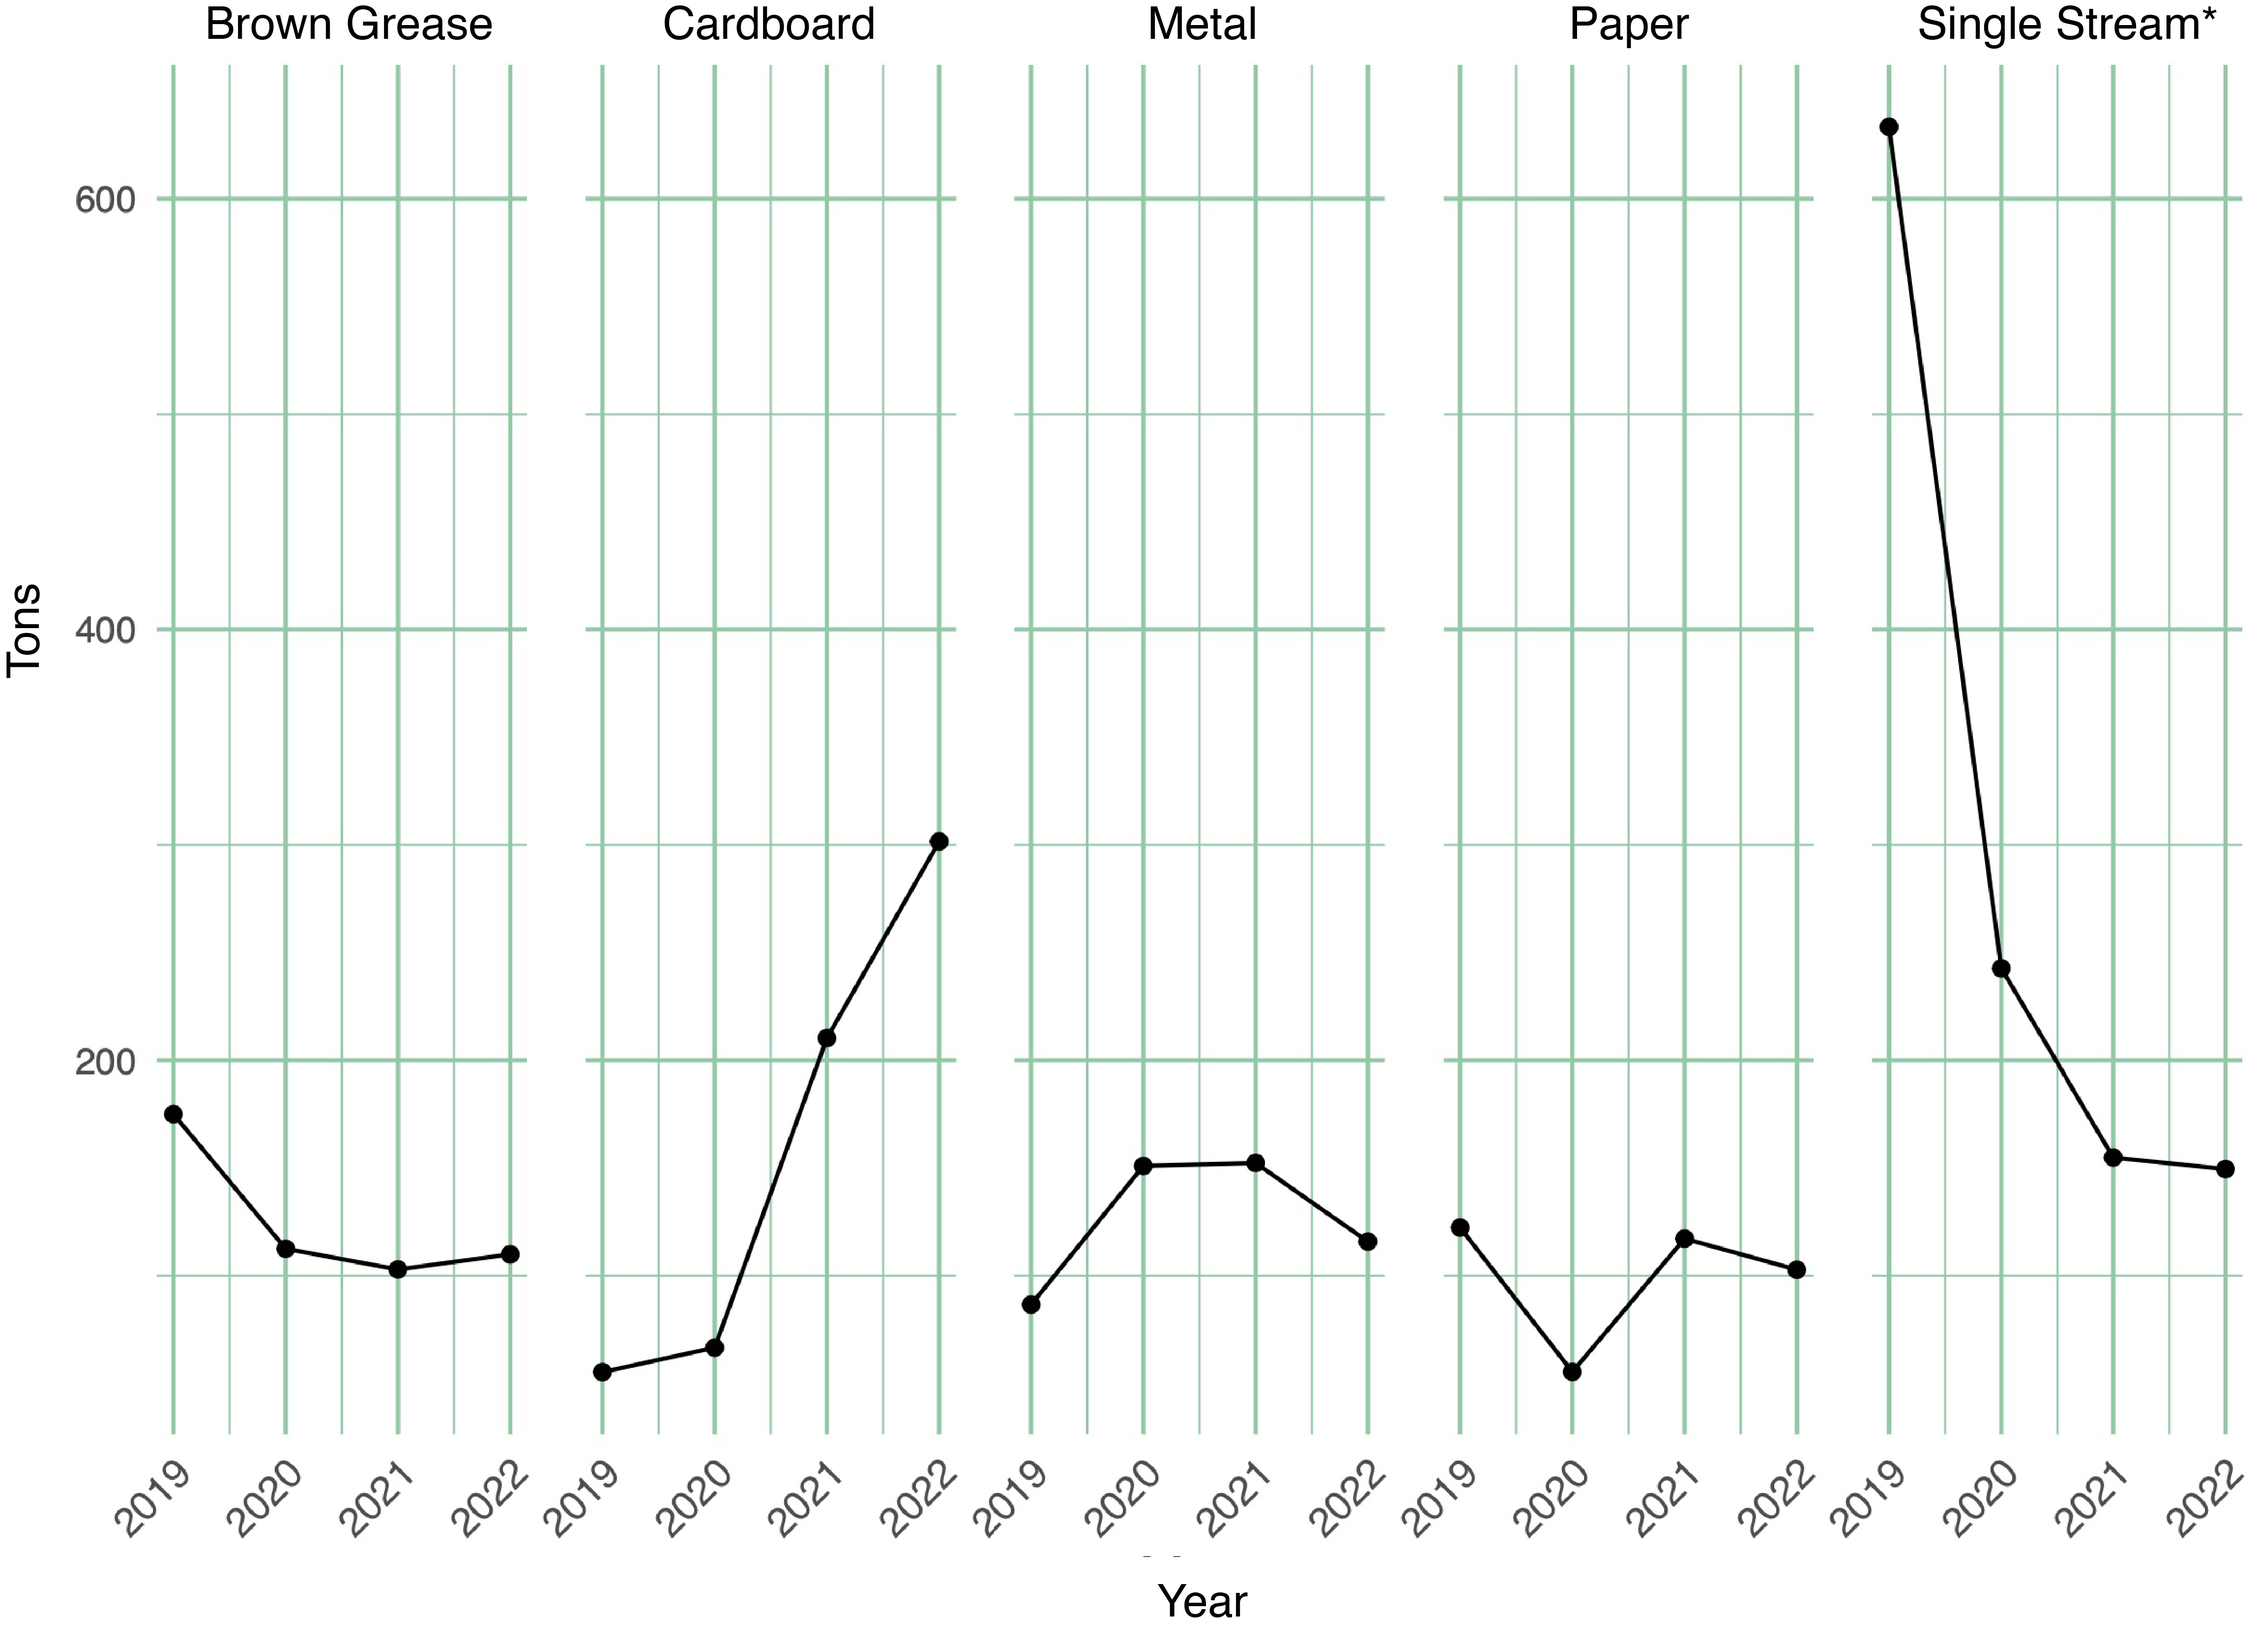
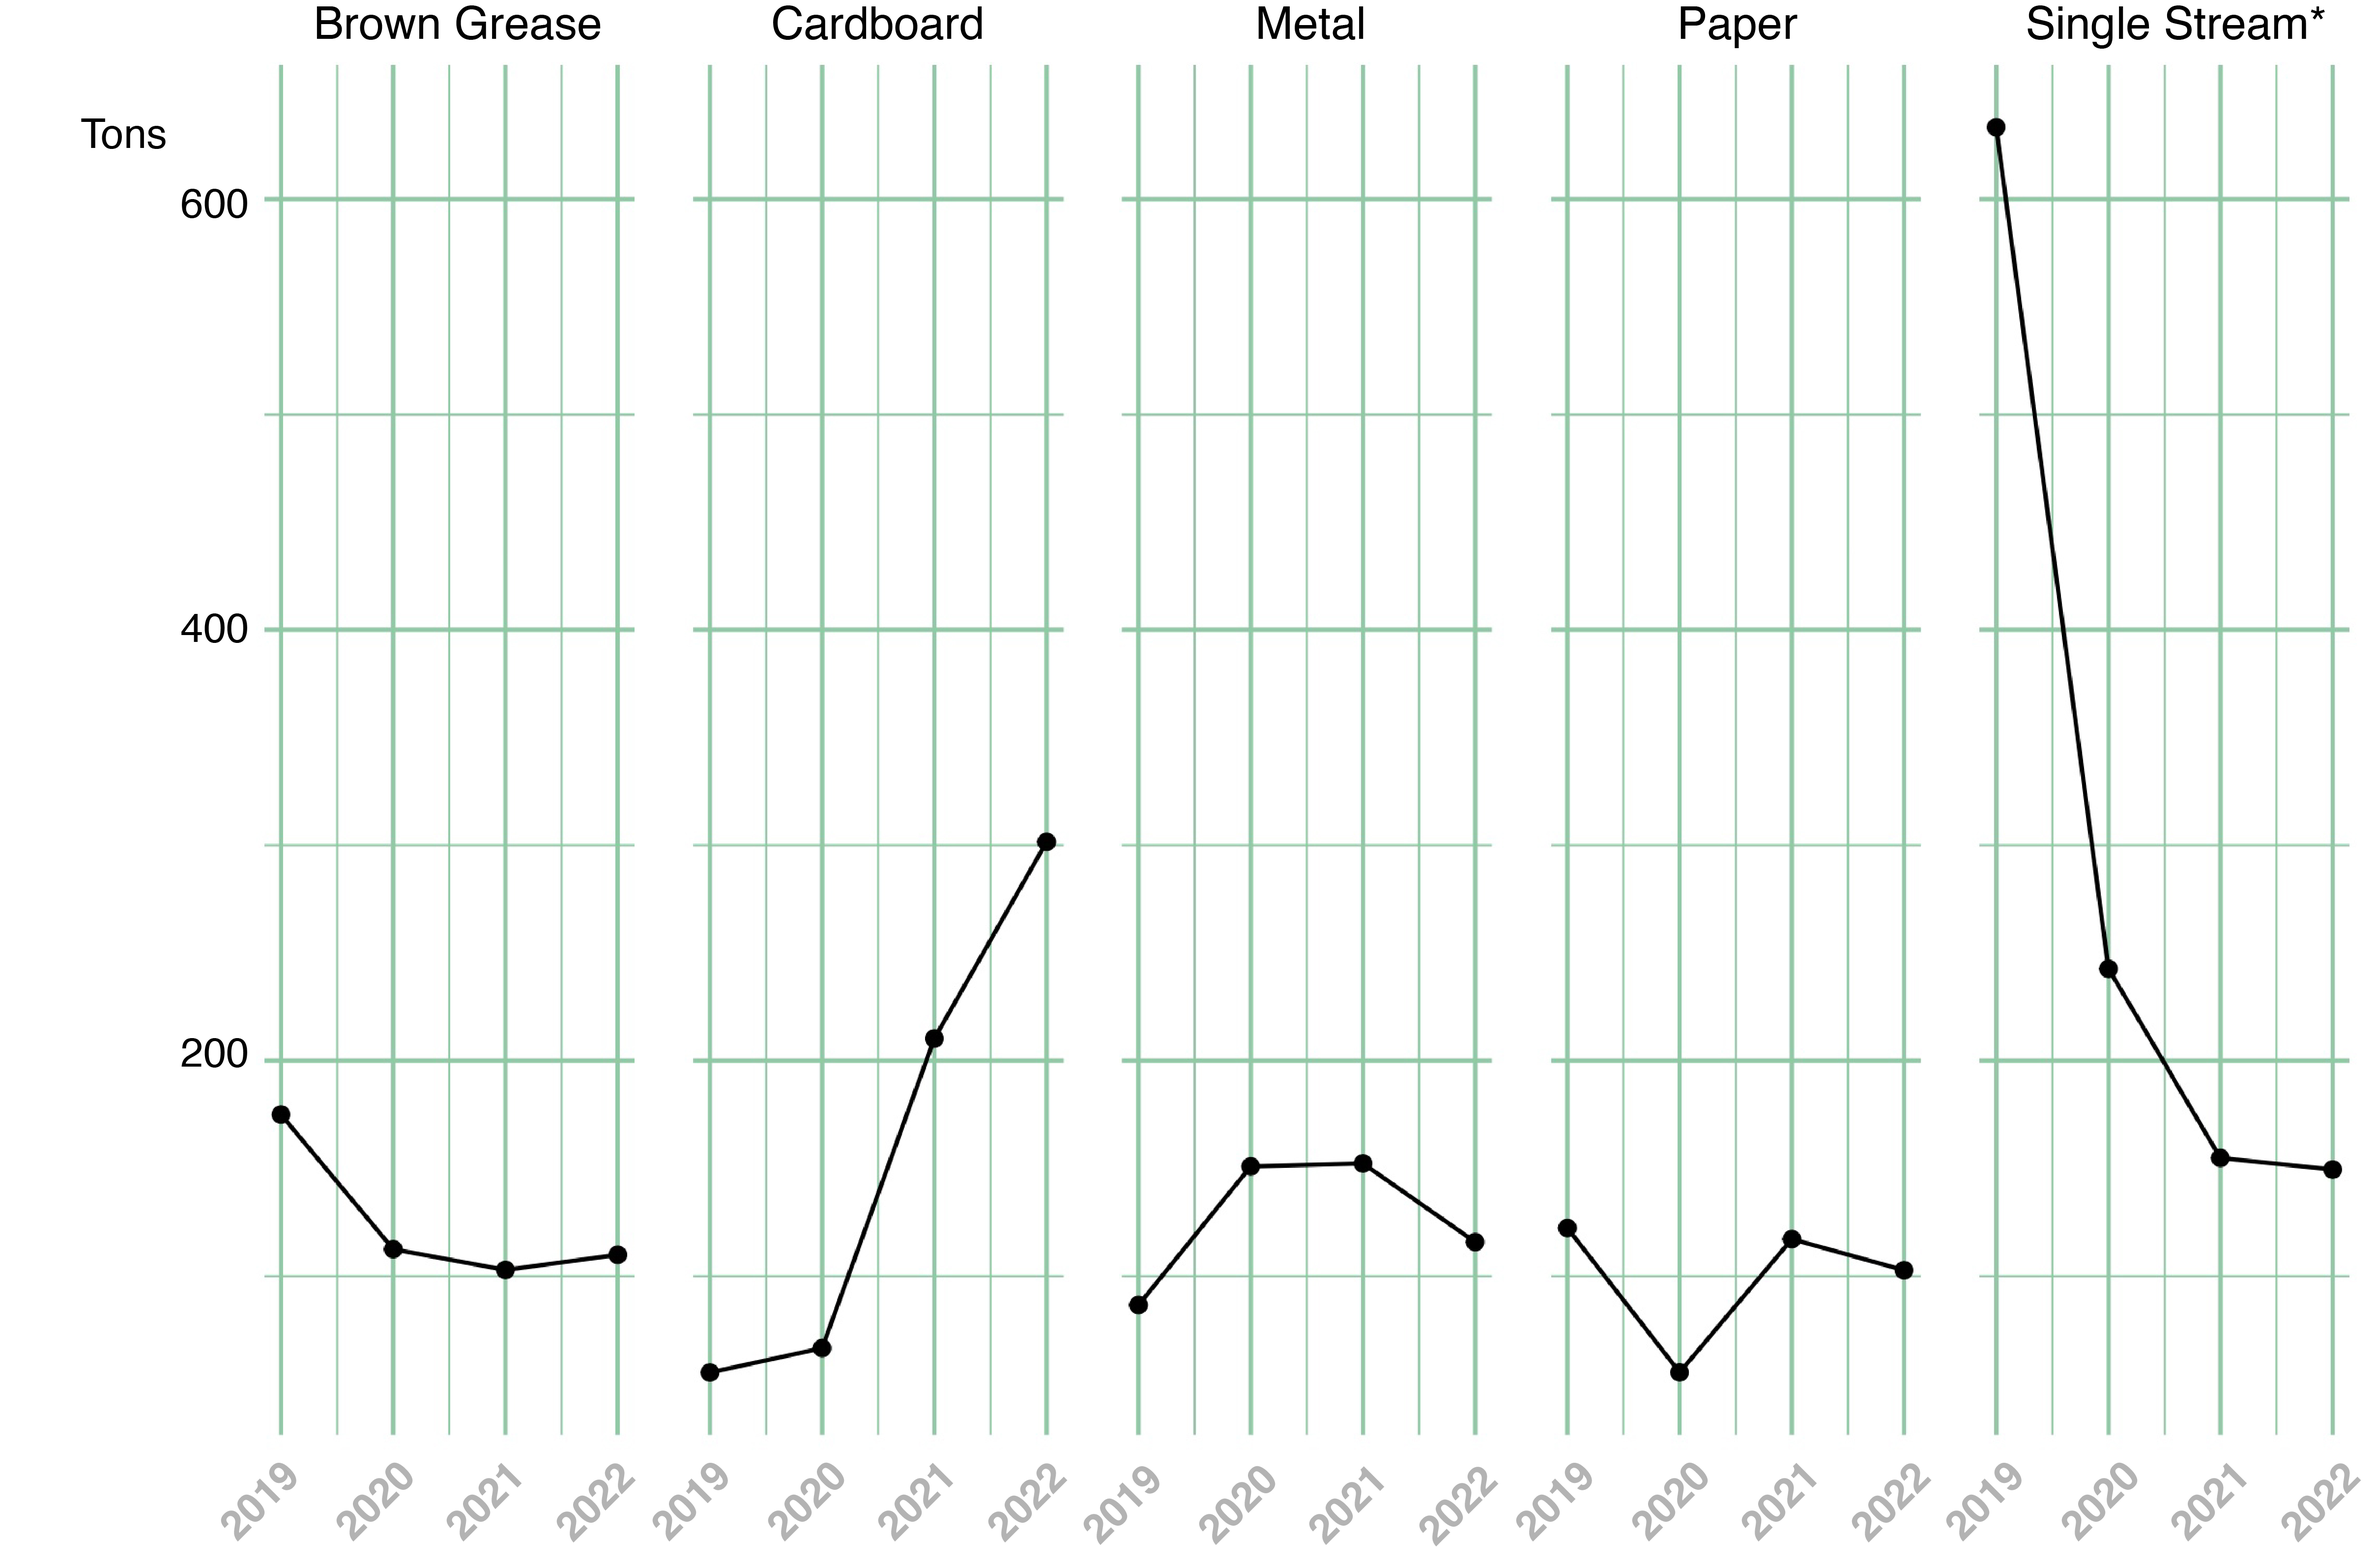
Graph updates for waste and recycling

Changed region(s): [[0.0, 0.0, 0.9963, 0.9944]]

diff --git a/waste-and-recycling.html b/waste-and-recycling.html
@@ -98,11 +98,11 @@
             <div class="grid-container-visual1">
                <div class="grid-item1 graph1" >
                   <p class="graph1title" > Total Waste Production by Disposition Type </p>
-                  <div class= "image1"> <img src="images\wasteandrecycling\5330TotalWasteProductionbyDisposition.jpg" width="600px"></div>
+                  <div class= "image1"> <img src="images\wasteandrecycling\5330TotalWasteProductionbyDisposition.jpg" width="650px"></div>
                </div>
                <div class="grid-item1 insights1">
                   <p class="grid-item1 waste-decrease"> <i> <strong>Overall, waste production at Northeastern has
-                           decreased since 2019. </strong></i> The dramatic dip during 2020 (arrow) is indicative of
+                           decreased since 2019. </strong></i> The dramatic dip during 2020 is indicative of
                      pandemic conditions. Beginning March of 2020, campuses around the world became empty in response to
                      the burgeoning public health crisis. Ever since, waste has ever so slightly increased.
                   <p class="grid-item1 increased"> More notably, <strong> compost waste has surpassed recycling waste.
@@ -157,7 +157,7 @@
                </div>
                <div class="grid-item3 graph3" >
                   <p class="graph3title"> Top Five Recycled Materials </p>
-                  <div class="image3"> <img src="images\wasteandrecycling\5330TopFiveRecycledMaterials.jpg" width="600px"></div>
+                  <div class="image3"> <img src="images\wasteandrecycling\5330TopFiveRecycledMaterials.jpg" width="650px"></div>
                </div>
             </div>
             <!-- End commentary-->

diff --git a/styles/wasteandrecycling/waste&recycling.css b/styles/wasteandrecycling/waste&recycling.css
@@ -223,6 +223,12 @@ p {
   grid-row: 1;
 }
 
+.graph1title {
+  font-size: 18px;
+  padding-bottom: 10px;
+  color: #B3B3B3;
+}
+
 .insights1 {
   grid-column: 2;
   grid-row: 1;
@@ -282,6 +288,7 @@ p {
 .graph2title {
   font-style: italic;
   font-size: 16px;
+  color: #B3B3B3;
 }
 
 .category {
@@ -295,7 +302,7 @@ p {
 
 .list {
   margin-top: 25px;
-  margin-left: 20px;
+  margin-left: 50px;
   font-style: italic;
   font-weight: 400;
   letter-spacing: 0em;
@@ -345,6 +352,7 @@ p {
 }
 
 .grid-item3 {
+  padding: 10px;
   background-color: rgba(255, 255, 255, 0.8);
   text-align: left;
   font-family: Helvetica;
@@ -355,7 +363,7 @@ p {
   grid-column: 2;
   grid-row: 1;
   font-family: Helvetica;
-  margin-left: 15%;
+  margin-left: 15px;
   width: 100%;
   height: 100%
 }
@@ -366,7 +374,8 @@ p {
 }
 
 .graph3title {
-  font-size: 22px;
+  font-size: 18px;
+  color: #B3B3B3;
 }
 
 .recycling-types {
